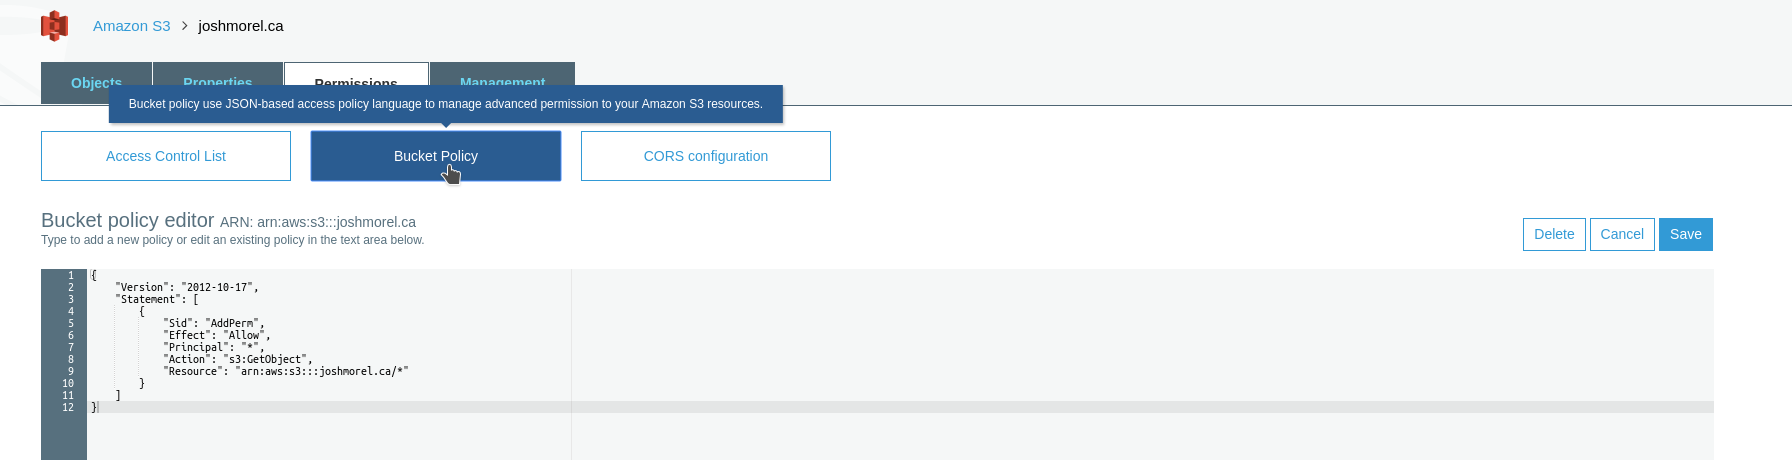
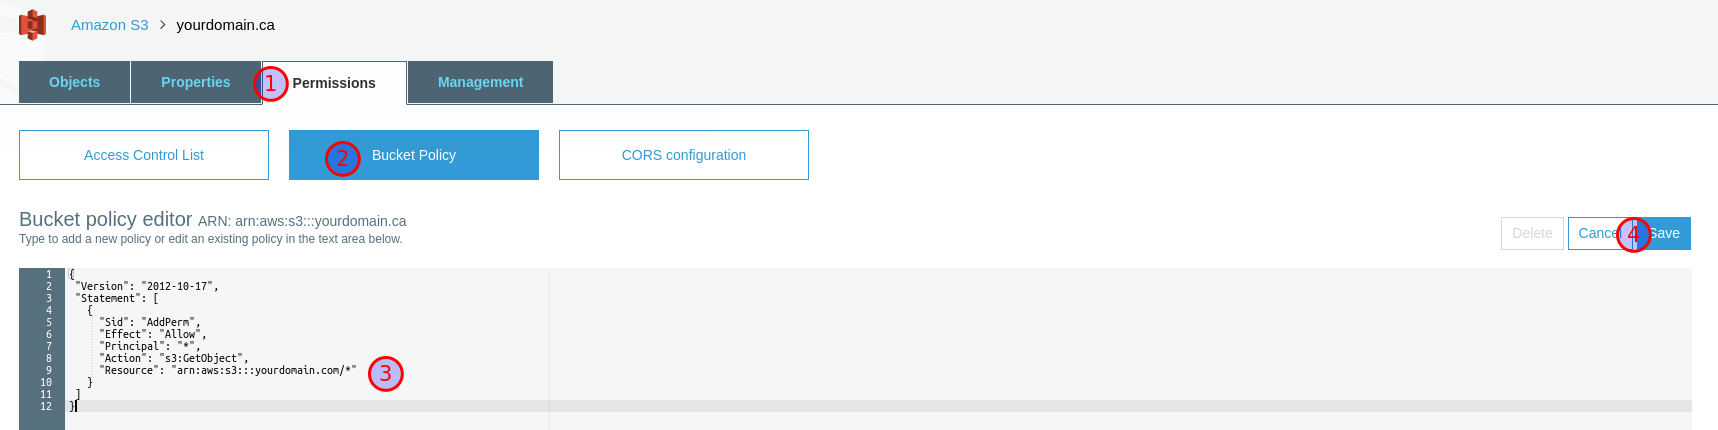
Finished migrate to s3 article

diff --git a/content/migrate-github-page-s3-cloudflare.rst b/content/migrate-github-page-s3-cloudflare.rst
@@ -1,14 +1,13 @@
 Migrate Static Site from GitHub Page to S3 and CloudFront
 #########################################################
 
-:date: 2017-02-23 09:44
-:modified: 2017-02-26 09:44
-:tags: pelican, s3, cloudfront
+:date: 2017-05-17 19:44
+:modified: 2017-05-17 19:44
+:tags: pelican, jekyll, s3, cloudfront
 :category: Web publishing 
 :slug: migrate-github-page-s3-cloudflare
 :authors: Josh Morel
 :summary: Step by step instructions to migrate static site from github page to s3 and cloudflare
-:series: Pelican
 
 Background
 ----------
@@ -17,29 +16,31 @@ Back in November 2016 I wrote my first how-to article on creating a `GitHub Pers
 
 My local set-up included a:
 
-   * Git repo with content and configuration files
-   * Git submodule with generated output to host on GitHub
-   * Git submodule with pelican-plugins
+* Git repo with content and configuration files
+* Git submodule with generated output to host on GitHub
+* Git submodule with pelican-plugins
 
 After reading through an article on static site hosting with `S3 and CloudFlare <https://wsvincent.com/static-site-hosting-with-s3-and-cloudflare/>`_ for "pennies a month" (caution: not yet verified!) I decided this was something I wanted to do.
 
 My reasons include:
 
-* Git submodule for constantly regenerated output was a really ugly solution
-* Can use SSL and generally more professional
-* Learn more about S3 and CloudFlare
+* Git submodule repo for constantly regenerated output was an ugly and awkward solution
+* Can use custom personalized domain combined with SSL - more professional
+* Increase skills with popular services - S3 and CloudFlare
 
-In this article I'll describe how to:
+In this article I'll describe how to use:
 
-1. Setup S3
-2. Modify Pelican repo to publish to S3
-3. Setup CloudFront and Modify Nameservers
-4. Redirect from GitHub with `jekyll-redirect-from <https://github.com/jekyll/jekyll-redirect-from>`_
+1. S3_ to host your site
+2. Pelican_ and s3cmd to publish
+3. CloudFlare_ to serve content over SSL
+4. Jekyll_ to redirect from GitHub to your new site
 
-To make this work you do need a registered domain. There are many options. I am using `CanSpace <https://www.canspace.ca/>`_ which is good for Canadians wanting a .ca domain.
+This article is a "*buffet*" of content and not all might be pertinent to your needs. A leaner how-to without the redirect topic is `available here <https://kawashi.me/how-to-host-your-blog-using-pelican-amazon-s3-and-cloudflare.html>`_.
 
-Amazon S3
----------
+Setup Amazon's S3
+-----------------
+
+.. _S3:
 
 First create an `Amazon S3 account <https://aws.amazon.com/s3/>`_. If you are new to AWS then you can get 12-months of 5GB storage & 20k get requests per month free. This should be more than enough for a personal site. After that there `is a cost <https://aws.amazon.com/s3/pricing/>`_ but it's reasonable.
 
@@ -48,36 +49,41 @@ Like Will Vincent, the author of the original article, I created two buckets wit
 Static Site Bucket
 ******************
 
-To achieve a similar affect first click the **Create Bucket**, enter your domain for **Bucket name**, and click **Next** through the rest of the screens until created.
+To achieve a similar affect, click the **Create Bucket** (1), enter your domain for **Bucket name** (2), and click **Next** through the rest of the screens.
 
 .. image:: {filename}/images/s3-create-bucket.png
    :alt: image: Create S3 Bucket
 
-Click on the bucket, then navigate to **Permissions** > **Bucket Policy** and use the policy below (with your actual domain, of course), essentially allowing anyone to get any object in the bucket (which is what we want), being sure to click **Save**.
+----
 
-.. code-block:: console
-
-   {
-        "Version": "2012-10-17",
-        "Statement": [
-            {
-                "Sid": "AddPerm",
-                "Effect": "Allow",
-                "Principal": "*",
-                "Action": "s3:GetObject",
-                "Resource": "arn:aws:s3:::yourdomain.com/*"
-            }
-        ]
-    }
+Click on the bucket, then navigate to **Permissions** (1) > **Bucket Policy** (2) and paste the following text into the **Bucket policy editor**, substituting with your actual domain (3). This essentially allows any browser to GET any object in the bucket (which is what we want). Be sure to click **Save** (4).
 
 .. image:: {filename}/images/s3-bucket-policy.png
    :alt: image: Set S3 Bucket Policy
 
-To enable static website hosting, go to **Properties**, click **Static website hosting**, select the **Use this bucket to host a website** option, enter ``index.html`` and ``404.html`` for **index document** and **Error document** respectively, then click **Save**. Note that you will need to use a 404.html template to serve a custom 404 page, which I won't be covered in this article.
+----
 
-.. image:: {filename}/images/s3-static-site.png
+.. code-block:: console
+
+   {
+     "Version": "2012-10-17",
+     "Statement": [
+       {
+         "Sid": "AddPerm",
+         "Effect": "Allow",
+         "Principal": "*",
+         "Action": "s3:GetObject",
+         "Resource": "arn:aws:s3:::yourdomain.com/*"
+       }
+     ]
+   }
+
+----
+
+To enable static hosting for this bucket, go to **Properties** (1), click **Static website hosting** (2), select the **Use this bucket to host a website** option (3), enter ``index.html`` and ``404.html`` for **index document** (4) and **Error document** (5) respectively, then click **Save** (5). Note that you will need to use a 404.html template to serve a custom 404 page, which I won't cover in this article.
+
+.. image:: {filename}/images/s3-static-hosting.png
    :alt: image: Enable S3 Static site hosting
-
 
 Redirect Bucket
 ***************
@@ -86,43 +92,47 @@ Optionally you can create a ``www.yourdomain.com`` bucket which simply redirects
 
 To do so create a new bucket similarly to above with the ``www`` subdomain as the bucket name. Then open the bucket, navigate to **Properties**, click **Static website hosting**, select the **Redirect requests** option and enter your domain for the **Target bucket or domain**.
 
-The next step is to publish your site to S3.
-
 Publishing to S3
 ----------------
 
-Although you can upload files manually to S3 this is a horribly inefficient option. Instead, I recommend using the `s3cmd <http://s3tools.org/s3cmd>`_ tool (also written in Python) combined with the Pelican `Makefile <http://docs.getpelican.com/en/stable/publish.html#make>`_. Using `Makefile` on Windows may be tricky. I'll stick an Addendum to this article on this. But the main instructions will only work smoothly with Linux (my preference, although I do use Windows too) or Mac.
+.. _Pelican:
+
+Although you can upload files manually to S3 this is a horribly inefficient option. Instead, I recommend using the `s3cmd <http://s3tools.org/s3cmd>`_ tool (also written in Python) combined with the Pelican `Makefile <http://docs.getpelican.com/en/stable/publish.html#make>`_. Using ``Makefile`` on Windows may be tricky. I plan to write an addendum to this article covering this topic.
 
 Enable s3cmd Management
 ***********************
 
-To use s3cmd you must both install s3cmd and set up AWS Identity and Access Management (IAM). To install s3cmd, on Ubuntu 16.04 I used `sudo apt install s3cmd`. For others, you can check your package manager or visit `the Download page for other options <http://s3tools.org/download>`_.
+To use s3cmd you must both install s3cmd and set up AWS Identity and Access Management (IAM). To install s3cmd, on Ubuntu 16.04 I used ``sudo apt install s3cmd``. For others, you can check your package manager or visit `the Download page for other options <http://s3tools.org/download>`_.
 
-You also need credentials for remote management, created through IAM. Log on to the AWS console navigate to the IAM service. You can also add required credentials to an existing user, but assuming you don't have one, click **Users** then **Add user**.
+You also need credentials for remote management, created through IAM. Log on to the AWS console navigate to the IAM service. You can also add required credentials to an existing user, but assuming you don't have one, click **Users** (1) then **Add user** (2).
 
-.. image:: {filename}/images/s3-iam-user-create.png
+.. image:: {filename}/images/s3-iam-create-user.png
    :alt: image: Create AWS user
 
-Enter a meaningful name and check off **Programmatic access** then click **Next: Permissions**.
+----
+
+Enter a meaningful name (1) and check off **Programmatic access** (2) then click **Next: Permissions** (3).
 
 .. image:: {filename}/images/s3-iam-set-user-details.png
    :alt: image: Set AWS user details
 
-Unless you have an appropriate group or user to copy permissions from, click **Attach existing policies directly**, filter or browse for **AmazonS3FullAccess**, place a check next to it, then click **Next: Review** and finally **Create user**.
+----
+
+Click **Attach existing policies directly** (1), filter on "S3 (2), then check **AmazonS3FullAccess** (3), then scroll down and click **Next: Review**. On the final screen click **Create user**.
 
 .. image:: {filename}/images/s3-iam-set-user-permissions.png
    :alt: image: Set AWS user S3 permissions
 
-After successful creation, download the .csv file or copy the **Access key ID** and **Secret access key**. Either way, it is important to keep these secret. These credentials can allow any agent to create and use nearly unlimited S3 buckets under your account as well as compromise existing buckets.
+----
 
-Run ``s3cmd --configure`` providing the necessary details. For more information about the different options visit the `s3cmd how-to <http://s3tools.org/s3cmd-howto>`_. For region codes to use when prompted for **Default Region** see http://docs.aws.amazon.com/general/latest/gr/rande.html#s3_region.
+After successful creation, download the .csv file or copy the **Access key ID** and **Secret access key**. Either way, it is important to keep these secret. These credentials can allow any agent to create and use practically unlimited S3 buckets under your account as well as compromise existing buckets.
 
-Great, you are now good to publish the blog to S3 using Pelican.
+Back in the terminal run ``s3cmd --configure`` and provide the necessary details for each prompt. For more information about the different options visit the `s3cmd how-to <http://s3tools.org/s3cmd-howto>`_. For region codes to use when prompted for **Default Region** see the `AWS S3 docs <http://docs.aws.amazon.com/general/latest/gr/rande.html#s3_region>`_. These steps save your configuration to ``~/.s3cfg``.
 
 Publish to S3 with Pelican Makefile
 ***********************************
 
-I'm going to use the Pelican Makefile for publishing. Previously I was doing site generation and debugging with only the ``pelican`` & ``python -m SimpleHTTPServer`` commands while publishing with ``git push``.  Now I will be using Makefile commands for everything some of which require the ``develop_server.sh`` script. To create these files, with focus on S3, run ``pelican-quickstart`` again providing the answering the S3-related prompts appropriately (lines beginning ``>`` below):
+Previously I was generating the site with ``pelican`` commands, reviewing the output with ``python -m SimpleHTTPServer`` and publishing with ``git push``.  Now I will be using ``Makefile`` commands to do everything. If you don't already have the file run ``pelican-quickstart`` providing similar answers to the S3-related prompts (lines beginning ``>``):
 
 .. code-block:: bash
 
@@ -131,7 +141,10 @@ I'm going to use the Pelican Makefile for publishing. Previously I was doing sit
    > What is the name of your S3 bucket? [my_s3_bucket] yourdomain.com
    mv Makefile develop_server.sh path/to/your/siterepo
 
-Note: If your content and output sub-directories are not named ``content`` or ``output`` then you will need to edit these files.
+A few extra notes:
+
+* The ``develop_server.sh`` script makes serving locally easier, executed with the ``make devserver`` command
+* If your **content** and **output** sub-directories are not named ``content`` or ``output``, respectively, then you will need to edit these files
 
 To publish your content to S3:
 
@@ -141,14 +154,105 @@ To publish your content to S3:
    make publish
    make s3_upload
 
-You should now be able to see your see your site index file at your bucket endpoint, for example: http://s3.ca-central-1.amazonaws.com/yourdomain.com/index.html. But this is less than ideal. We want to be able to use our own domain name and SSL. For this we can use a free tier of CloudFlare.
+You should now be able to see your see your site index file at your bucket endpoint, for example: http://s3.ca-central-1.amazonaws.com/yourdomain.com/index.html. But this is less than ideal. We want to be able to use our own domain name plus SSL. To achieve this wa can use a free tier from CloudFlare.
 
-Leveraging CloudFlare for Secure Site Delivery
-----------------------------------------------
+Leveraging CloudFlare Content Delivery
+--------------------------------------
 
-CloudFlare provides improved content delivery, security and domainname services with a free-tier that should be sufficient for our purposes.
+.. _CloudFlare:
+
+Create CloudFlare Site
+**********************
+
+CloudFlare is a content delivery network (among other things) with a free-tier that should be sufficient for a personal site. This will enable us to use our own domain and SSL while taking advantage of some modest gains in performance and protection against DDoS (compared to self-hosting). Create an account through `https://www.cloudflare.com/a/sign-up <CloudFlare's sign-up page>`_.
+
+Using your own registered domain, click **+ Add Site** (1), enter the domain (2) and click **Begin Scan** (3). If the domain is registered, you should see the domain listed.
+
+.. image:: {filename}/images/cloudflare-add-site.png
+   :alt: image: Add Site to CloudFlare
+
+----
+
+Delete any other records (for example, the **A** record) then create a **CNAME** record for each bucket. If you're following along, that's one for ``yourdomain.com`` (you can enter ``@``) with a value of ``yourdomain.com.s3-ca-central-1.amazonaws.com`` (1) and one for ``www`` with a value of ``www.yourdomain.com.s3-ca-central-1.amazonaws.com`` (2). Be sure to use your domain/bucket as well as the region your AWS service is located in instead of "ca-central-1". You also must exclude the "http" prefix (3) or any trailing slash (4). Then click **Continue**.
+
+.. image:: {filename}/images/cloudflare-set-dns-records.png
+   :alt: image: Setting CloudFlare DNS Records
+
+----
+
+Select the "Free Plan" then click **Continue** to arrive at the DNS nameserver section. Note the DNS nameservers then click **Continue** again. The site is created, but we must update our domain to use these nameservers.
+
+Update Domain Nameservers
+*************************
+
+How to update the nameservers for your domain will depend on the registrar but at a high-level it should be similar. These are:
+
+1. For the domain of interest, delete existing DNZ zones
+2. Navigate to the manage nameservers page for that domain
+3. Update nameserver 1 and 2 with values noted earlier during CloudFlare site creation
+4. Wait
+
+We need to wait for both the domain registrar and CloudFlare updates to synchronize. This can be quick but you are warned it can take over 24 hours. For me, actually, it took overnight so patience is necessary for this part.
 
 
+HTTP Redirecting
+****************
 
+Once you have confirmed https://yourdomain.com is serving your site properly, there is one more step to take. We want to redirect HTTP traffic to HTTPS.
 
+First click on **Crypto** (1) then change **SSL** (2) to ``Flexible``. We want to *accept* both HTTP and HTTPS traffic, we're just going to *redirect* HTTP to HTTPS.
 
+.. image:: {filename}/images/cloudflare-flexible-ssl.png
+   :alt: image: Change CloudFlare SSL to Flexible
+
+----
+
+Next click on **Page Rules** (1), then **Create Page Rule** (2). Enter a wildcard value for URL matching (3), select **Always Use HTTPS** (4) from the drop-down then **Save and Deploy** (5). Now when you enter http://yourdomain.com you should be redirected.
+
+.. image:: {filename}/images/cloudflare-always-use-https.png
+   :alt: image: Set CloudFlare Page Rule to use HTTPS
+
+----
+
+Redirect from GitHub Pages with Jekyll
+**************************************
+
+.. _Jekyll:
+
+If you were previously serving your site from "username.github.io" and want to redirect visits to this page, you still need to create a Jekyll GitHub Pages site, but it's very simple.
+
+`Jekyll was always <https://jekyllrb.com/>`_ the more elegant option for serving a site from GitHub with the built-in support, but I switched to Pelican because I wanted to use something written in a language I understood so I could troubleshoot or customize. This is a revisit to Jekyll, combined with `jekyll-redirect-from <https://github.com/jekyll/jekyll-redirect-from>`_, but it's for the single purpose of HTTP redirection.
+
+First `delete the existing GitHub repo <https://help.github.com/articles/deleting-a-repository/>`_ to keep things clean, then recreate it as an empty repository.
+
+Instead of detailing all the different files you need to create, I'm providing a "starter" from my GitHub repo to download:
+
+.. code-block:: bash
+
+   wget https://github.com/joshmorel/joshmorel.github.io/archive/starter.tar.gz -O starter.tar.gz
+   tar xvzf starter.tar.gz
+   mv joshmorel.github.io-starter username.github.io
+   cd username.github.io
+
+Download and install `Ruby <https://www.ruby-lang.org/en/documentation/installation/>`_ if you don't already have it, edit the ``index.md`` (substituting your actual domain), then run these commands to install dependencies and build and serve to confirm it's working:
+
+.. code-block:: bash
+
+   gem install bundle
+   bundle install # install dependencies from Gemfile
+   jekyll build
+   bundle exec jekyll serve
+
+Once satisfied you can create the git repo, stage and commit changees, then push to GitHub (substituting with actual username):
+
+.. code-block:: bash
+
+   git init
+   git add .
+   git commit -m "Initial commit"
+   git remote add origin git@github.com:username/username.github.io
+   git push -u origin master
+
+One **very important note**, wildcard re-directs are not possible so if you want to redirect specific articles or apges you will need to create one for each, similar to ``index.md``. I *might* write a script to help with this, but for now, please feel free to contact me if you have any question!
+
+That's it, you should be good to use your newly personalized and optimized site!
